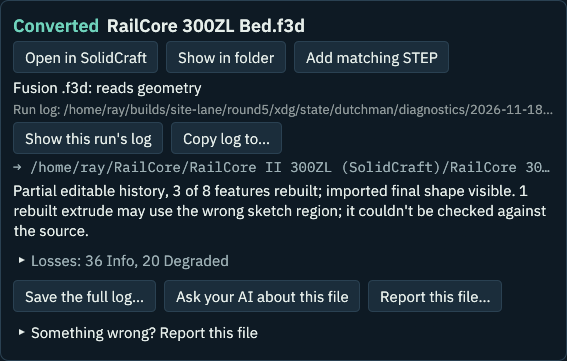
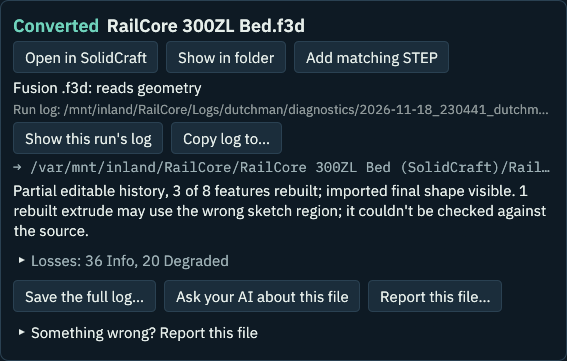
Refresh RailCore captures with neutral paths and readable mobile cards

Changed region(s): [[0.1199, 0.2742, 0.9594, 0.3352], [0.06, 0.4266, 0.9594, 0.4875]]

diff --git a/index.html b/index.html
@@ -29,9 +29,9 @@
 *{box-sizing:border-box}html{scroll-behavior:smooth;scroll-padding-top:24px}body{margin:0;background:var(--bg);color:var(--ink);font:16px/1.6 system-ui,-apple-system,"Segoe UI",sans-serif}a{color:var(--accent);text-underline-offset:4px}a:hover{text-decoration-thickness:2px}a:focus-visible{outline:3px solid var(--accent);outline-offset:5px}p{margin:0 0 16px}h1,h2,h3{line-height:1.15;text-wrap:balance}h2{font:500 clamp(30px,3vw,40px)/1.15 Georgia,serif;letter-spacing:-.03em;margin:0 0 16px}h3{font-size:18px;margin:0 0 10px}code{font-size:.9em;overflow-wrap:anywhere}main,.nav,footer{max-width:1184px;margin:auto;padding-left:32px;padding-right:32px}.nav{min-height:96px;display:flex;align-items:center;justify-content:space-between;gap:24px;border-bottom:1px solid var(--line)}.brand{display:inline-flex;align-items:center;gap:12px;color:var(--ink);font-weight:750;font-size:18px;letter-spacing:-.03em;text-decoration:none}.mark{width:28px;height:30px;position:relative;border-bottom:4px solid var(--accent);display:inline-block}.mark:before,.mark:after{content:"";position:absolute;border:2px solid var(--accent);width:13px;height:17px;top:2px;transform:skewY(25deg)}.mark:before{left:0}.mark:after{right:0;top:7px}.nav-links{display:flex;gap:28px;font-size:14px}.nav-links a{color:var(--muted);text-decoration:none}.nav-links a:hover{color:var(--accent);text-decoration:underline}.skip{position:absolute;top:-80px;left:16px;background:var(--panel);padding:12px;z-index:2}.skip:focus{top:12px}.eyebrow{font:600 12px/1.5 ui-monospace,monospace;letter-spacing:.12em;text-transform:uppercase;color:var(--accent);margin-bottom:20px}.hero{display:grid;grid-template-columns:minmax(0,.9fr) minmax(0,1.1fr);gap:36px;padding:76px 0 34px;align-items:center}h1{font:500 clamp(48px,5.3vw,68px)/1.04 Georgia,serif;letter-spacing:-.045em;margin:0 0 26px}h1 em{font-style:normal;color:var(--accent)}.lead{color:var(--muted);font-size:18px;max-width:520px;line-height:1.65}.actions{display:flex;flex-wrap:wrap;gap:10px;margin:28px 0 14px}.button{display:inline-flex;align-items:center;justify-content:center;gap:14px;padding:13px 20px;border-radius:5px;background:var(--accent);color:var(--button);font-weight:650;text-decoration:none;font-size:14px;border:1px solid var(--accent)}.button:hover{filter:brightness(1.08)}.button.secondary{background:transparent;color:var(--ink);border-color:var(--line)}.small{font-size:13px;color:var(--muted)}.proof{margin:0;background:#173c33;border:1px solid #31594a;border-radius:8px;padding:20px 12px 18px;box-shadow:var(--shadow);color:#edf4eb}.proof-top{display:flex;justify-content:space-between;gap:12px;font:12px ui-monospace,monospace;color:#bfcebf;margin:0 4px 24px}.proof-top span:first-child:before{content:"";display:inline-block;width:7px;height:7px;border-radius:50%;background:#a8d4a7;margin-right:9px}.proof-label{font:12px/1.5 ui-monospace,monospace;color:#bfcebf;margin:18px 4px 12px}.proof figcaption a{color:inherit}.proof figcaption small{display:block;font-size:11px;margin-top:10px}.proof picture{display:block;max-width:100%;margin:auto}.proof img{display:block;width:auto;max-width:100%;height:auto;margin:auto;border-radius:4px;background:#f1f5f4}.proof figcaption{font-size:14px;line-height:1.6;margin:20px 5px 2px;color:#cfddcf}.proof figcaption strong{display:block;font-weight:600;color:#f0f5ed;margin-bottom:4px}.downloads{font-size:12px;line-height:1.8;color:var(--muted);padding:0 0 38px;border-bottom:1px solid var(--line)}.downloads p{margin:5px 0}.downloads strong{font-weight:600;color:var(--ink)}.downloads a{white-space:nowrap;display:inline-block;margin-right:10px}.section{padding:54px 0;border-bottom:1px solid var(--line)}.section-head{display:flex;justify-content:space-between;gap:24px;align-items:baseline}.section-head p{color:var(--muted);font-size:14px}.intro{max-width:700px;color:var(--muted)}.formats{display:grid;grid-template-columns:repeat(4,minmax(0,1fr));gap:1px;background:var(--bg);border:1px solid var(--line);border-radius:6px;overflow:hidden;margin:24px 0 18px}.format{min-width:0;overflow-wrap:anywhere;background:var(--panel);padding:18px 20px;display:flex;flex-direction:column;align-items:flex-start;gap:4px}.format h3{font-size:16px;margin:0}.ext{font:11px/1.5 ui-monospace,monospace;color:var(--muted)}.status{font-size:12px;margin-top:9px;color:var(--muted)}.status.history{color:var(--accent)}.status.partial,.status.preview{color:var(--amber)}.status:before{content:"";display:inline-block;width:6px;height:6px;border-radius:50%;background:currentColor;margin-right:7px}.format.preview-card{background:var(--wash)}.note{font-size:13px;color:var(--muted);max-width:850px}.news{display:grid;grid-template-columns:1fr 1fr;gap:28px;margin-top:26px}.news article{border-left:2px solid var(--accent);padding:4px 0 0 22px}.tag{display:inline-block;font:500 11px/1.5 ui-monospace,monospace;background:var(--amber-bg);color:var(--amber);padding:4px 8px;border-radius:3px;margin-bottom:16px}.news h3{font-size:22px;letter-spacing:-.03em}.news p{color:var(--muted);margin-bottom:0}.help-grid{display:grid;grid-template-columns:repeat(4,1fr);gap:16px;margin-top:26px}.help{border:1px solid var(--line);border-radius:6px;padding:22px 20px;display:flex;flex-direction:column;background:var(--panel)}.help .number{font:12px ui-monospace,monospace;color:var(--accent);margin-bottom:24px}.help h3{font-size:17px}.help p{color:var(--muted);font-size:14px}.help a,.help code{margin-top:auto;font-size:13px}.help code{display:block;background:var(--wash);padding:8px;border-radius:3px;color:var(--ink)}
 .projects{padding-bottom:30px}.project{display:grid;grid-template-columns:220px 1fr 170px;gap:28px;padding:24px 0;border-top:1px solid var(--line);align-items:baseline}.project:first-of-type{margin-top:26px}.project h3{margin:0;font-size:17px}.project p{color:var(--muted);font-size:14px;margin:0}.project>a{font-size:13px;justify-self:end}.principles{display:flex;flex-wrap:wrap;gap:12px 28px;font-size:13px;color:var(--muted);margin-top:32px}footer{display:flex;flex-wrap:wrap;justify-content:space-between;gap:20px;padding-top:26px;padding-bottom:36px;font-size:12px;color:var(--muted)}footer p{margin:0}footer a{margin-left:20px}footer .licence a{margin-left:0}
 
-@media(min-width:1000px){.proof{transform:perspective(1400px) rotateY(-6deg) rotateZ(-2deg);box-shadow:0 24px 54px #08291d30}}
+@media(min-width:1000px){.proof{transform:perspective(1200px) rotateY(-8deg) rotateZ(-2.5deg);box-shadow:12px 30px 60px #0005}}
 @media(max-width:900px){.hero{gap:28px}h1{font-size:50px}.help-grid{grid-template-columns:repeat(2,1fr)}.formats{grid-template-columns:repeat(3,minmax(0,1fr))}.project{grid-template-columns:170px 1fr}.project>a{grid-column:2;justify-self:start}.proof{padding:18px 12px}.proof-top{font-size:10px}.actions{gap:8px}.button{padding:12px 14px}}
-@media(max-width:650px){main,.nav,footer{padding-left:22px;padding-right:22px}.nav{min-height:112px;gap:14px;flex-wrap:wrap;padding-top:18px;padding-bottom:16px}.brand{font-size:16px;gap:8px}.nav-links{width:100%;justify-content:space-between;gap:12px;font-size:12px}.hero{grid-template-columns:minmax(0,1fr);padding-top:46px;gap:30px}h1{font-size:56px}.eyebrow{font-size:11px;margin-bottom:18px}.lead{font-size:17px}.actions{margin-top:24px}.proof{padding:20px 12px 16px}.proof-top{font-size:11px;margin-bottom:18px}.proof figcaption{font-size:13px;margin-top:16px}.downloads{padding-bottom:28px}.section{padding:38px 0}.section-head{display:block}.section-head p{margin-bottom:18px}.formats{grid-template-columns:repeat(2,minmax(0,1fr))}.format{padding:16px 12px}.format h3{font-size:15px}.ext{font-size:10px}.news{grid-template-columns:1fr;gap:28px}.help-grid{gap:12px}.help{padding:18px 14px}.help .number{margin-bottom:20px}.help h3{font-size:16px}.help p{font-size:13px}.help a,.help code{font-size:12px}.project{grid-template-columns:1fr;gap:10px;padding:22px 0}.project>a{grid-column:1}.principles{display:block}.principles span{display:block;margin:8px 0}footer{display:block}footer p{margin-bottom:12px}footer nav{margin:16px 0}footer nav a{margin:0 20px 0 0}}
+@media(max-width:650px){main,.nav,footer{padding-left:22px;padding-right:22px}.nav{min-height:112px;gap:14px;flex-wrap:wrap;padding-top:18px;padding-bottom:16px}.brand{font-size:16px;gap:8px}.nav-links{width:100%;justify-content:space-between;gap:12px;font-size:12px}.hero{grid-template-columns:minmax(0,1fr);padding-top:46px;gap:30px}h1{font-size:56px}.eyebrow{font-size:11px;margin-bottom:18px}.lead{font-size:17px}.actions{margin-top:24px}.proof{padding:20px 4px 16px;width:calc(100% + 24px);margin-left:-12px;box-shadow:0 18px 35px #0003}.proof-top{font-size:11px;margin-bottom:18px}.proof figcaption{font-size:13px;margin-top:16px}.downloads{padding-bottom:28px}.section{padding:38px 0}.section-head{display:block}.section-head p{margin-bottom:18px}.formats{grid-template-columns:repeat(2,minmax(0,1fr))}.format{padding:16px 12px}.format h3{font-size:15px}.ext{font-size:10px}.news{grid-template-columns:1fr;gap:28px}.help-grid{gap:12px}.help{padding:18px 14px}.help .number{margin-bottom:20px}.help h3{font-size:16px}.help p{font-size:13px}.help a,.help code{font-size:12px}.project{grid-template-columns:1fr;gap:10px;padding:22px 0}.project>a{grid-column:1}.principles{display:block}.principles span{display:block;margin:8px 0}footer{display:block}footer p{margin-bottom:12px}footer nav{margin:16px 0}footer nav a{margin:0 20px 0 0}}
 
 .install{padding:28px 0 30px;border-bottom:1px solid var(--line)}
 .install h2{font:600 18px/1.4 system-ui,sans-serif;letter-spacing:0;margin:0 0 16px}
@@ -69,6 +69,8 @@
     <img class="railcore-model" src="assets/railcore-solidcraft.png" width="570" height="327" alt="The full RailCore II 300ZL printer, converted from Fusion and open in SolidCraft.">
     <p class="proof-label">Dutchman Convert · bed conversion</p>
     <picture class="conversion-card">
+      <source media="(max-width: 650px) and (prefers-color-scheme: dark)" srcset="assets/railcore-results-dark-mobile.png" width="428" height="433">
+      <source media="(max-width: 650px)" srcset="assets/railcore-results-light-mobile.png" width="428" height="433">
       <source media="(prefers-color-scheme: dark)" srcset="assets/railcore-results-dark.png" width="567" height="361">
       <img src="assets/railcore-results-light.png" width="567" height="361" alt="Converted RailCore 300ZL Bed.f3d. Partial editable history, three of eight features rebuilt; imported final shape visible. One rebuilt extrude may use the wrong sketch region. Losses: 36 informational and 20 degraded.">
     </picture>

diff --git a/assets/README.md b/assets/README.md
@@ -1,27 +1,26 @@
 # Landing page sources
 
-- `railcore-results-light.png` and `railcore-results-dark.png`: complete, native
-  567 × 361 app-card crops `(729, 104, 1296, 465)` from the new real GUI
-  screenshots `~/builds/site-lane/round5/shots/bed-result-day.png` and
-  `bed-status.png`. No text, pixels or counts were retouched or rescaled.
-  The card is displayed at its native CSS dimensions on desktop and scaled
-  down as one whole image on mobile.
+- `railcore-results-light.png` and `railcore-results-dark.png`: complete native
+  567 × 361 app-card crops `(729, 104, 1296, 465)` from a fresh RailCore
+  bed conversion. The `-mobile.png` variants are 428 × 433 crops
+  `(32, 359, 460, 792)` captured after resizing the same app window.
+  No text, pixels or counts were retouched or rescaled. Desktop uses native image dimensions;
+  mobile uses the same result reflowed in a narrower real app window.
 - `railcore-solidcraft.png`: unretouched native 570 × 327 viewport crop
-  `(292, 159, 862, 486)` from `round5/shots/railcore-model-clean.png`.
+  `(292, 159, 862, 486)` from the original full-printer capture.
   This is the newly converted full printer open in a private SolidCraft
   0.44.1 window, rather than a preview inside Dutchman Convert. The page
   labels the full printer view and its bed's conversion card separately.
 
 The input archive is [RailCore II 300ZL - Nov 2019.f3z](https://github.com/railcore/parts/blob/master/F3Z/RailCore%20II%20300ZL%20-%20Nov%202019.f3z),
-from the public RailCore/parts repository, saved as
-`~/RailCore/RailCore II 300ZL.f3z`. SHA-256:
+from the public RailCore/parts repository. SHA-256:
[1 lines of base64/hex data omitted]
 The full conversion placed 379 of 379 components and produced a partial
 history (167 of 506 features rebuilt, with 2 kept and re-applied).
 
 For the compact full card, the archive's unmodified
 `56626b2f-7382-4b0a-b53e-c9c0ef1f46f1.f3d` member (`300ZL Bed` in
-`DesignDescription.json`) was saved as `~/RailCore/RailCore 300ZL Bed.f3d`
+`DesignDescription.json`) was named `RailCore 300ZL Bed.f3d`
 and converted again in the app. Its exact displayed outcome is:
 
 > Converted RailCore 300ZL Bed.f3d
@@ -30,18 +29,15 @@ and converted again in the app. Its exact displayed outcome is:
 >
 > Losses: 36 Info, 20 Degraded
 
-Both runs used the newest available GUI under `~/builds`,
-`buildq-target/dutchman/dm-ci-audit-check-4485e3d5/debug/dutchman-gui`
-(built 2026-11-18 15:32). Its source revision `7bad9c37` has the same
-application/conversion code as main's `16f61ba8`; later changes through
-main `f0748301` were CI/documentation changes. Output remains in the clean
-`~/RailCore/RailCore II 300ZL (SolidCraft)/` folder.
+Both runs used the GUI built 2026-11-18 15:32. Its source revision
+`7bad9c37` has the same application/conversion code as main's `16f61ba8`;
+changes through main `f0748301` were CI/documentation changes.
 
-Capture followed the UI walk kit in a private Xvfb :89 session with browser
-stubs and private XDG folders. A real Xdnd file drop worked around the
-newer build's file picker under Xvfb. The source captures, conversion
-reports, helper scripts and full-printer result are retained outside the
-site under `~/builds/site-lane/round5/` and `~/RailCore/`.
+Capture followed the UI walk kit in a private Xvfb session with browser
+stubs and isolated XDG folders. A real Xdnd file drop worked around the
+file picker under Xvfb. The refreshed card uses a neutral RailCore folder
+for both conversion output and diagnostics. Original captures and reports
+are retained outside the published site.
 
 RailCore II is by J. Steve White and Tony Akens, with additional
 contributors credited in the source repository, under CC BY-SA 4.0.
